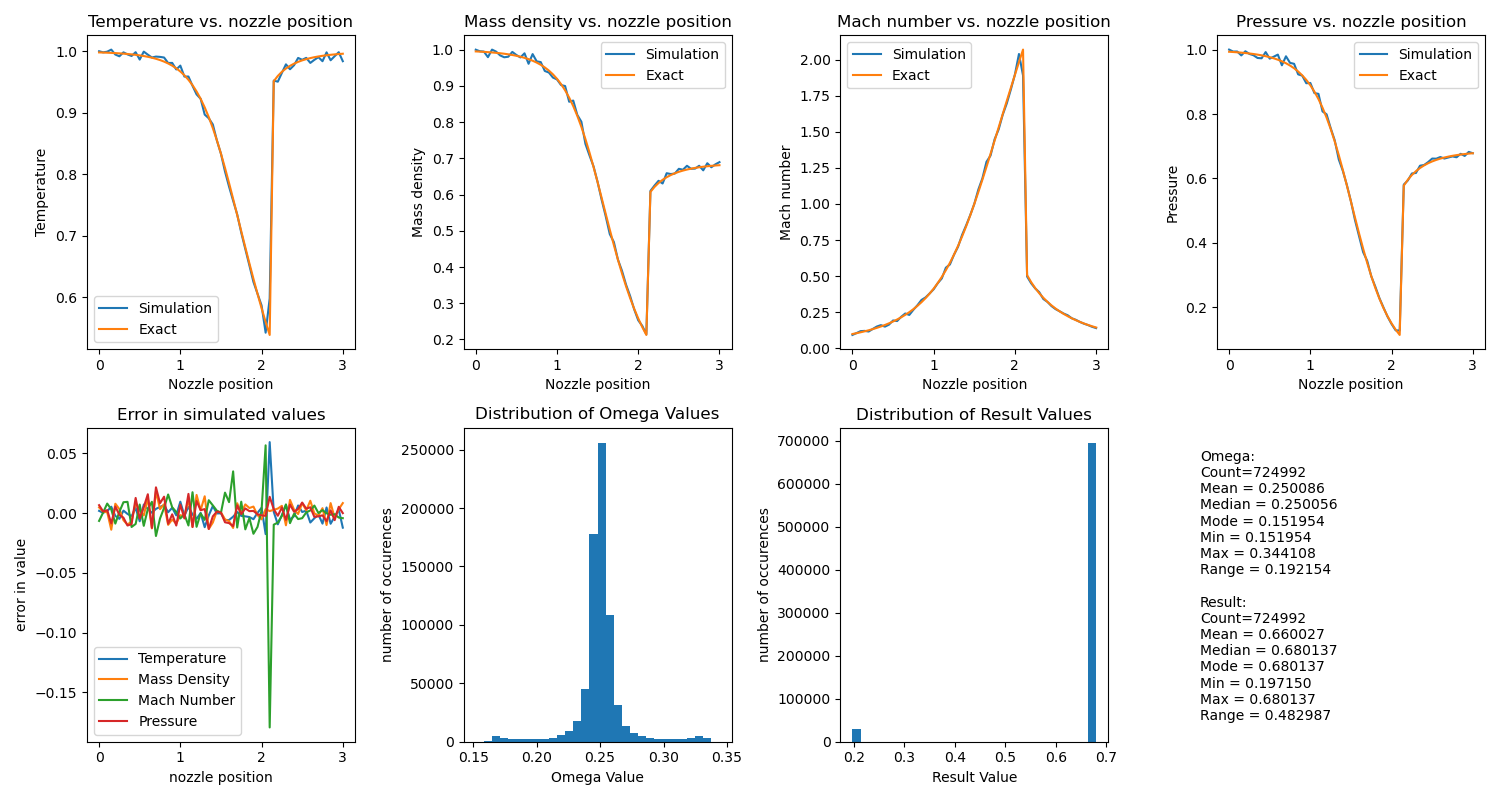
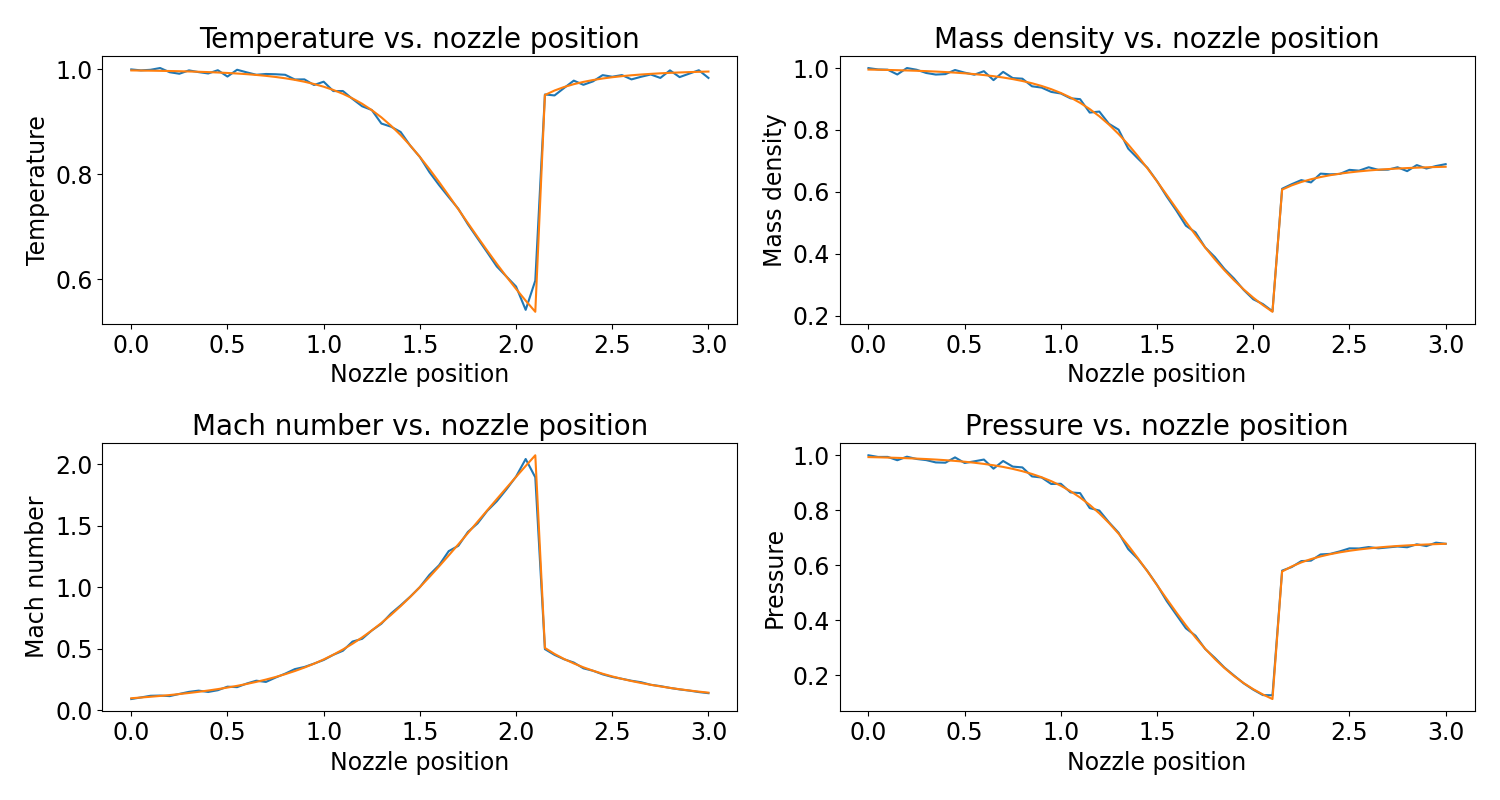
changed image output for my paper

diff --git a/python_version/visualization/vis.py b/python_version/visualization/vis.py
@@ -3,6 +3,17 @@ from scipy import stats
 import numpy as np
 import os, re
 
+# font control
+NORMAL_SIZE = 17
+BIGGER_SIZE = 20
+
+plt.rc('font', size=NORMAL_SIZE)          # controls default text sizes
+plt.rc('axes', titlesize=NORMAL_SIZE)     # fontsize of the axes title
+plt.rc('axes', labelsize=NORMAL_SIZE)    # fontsize of the x and y labels
+plt.rc('xtick', labelsize=NORMAL_SIZE)    # fontsize of the tick labels
+plt.rc('ytick', labelsize=NORMAL_SIZE)    # fontsize of the tick labels
+plt.rc('legend', fontsize=NORMAL_SIZE)    # legend fontsize
+
 class visualize:
     # universal x coordinate system
     x = np.linspace(0, 3, 61)
@@ -17,9 +28,9 @@ class visualize:
         ignore_these = [os.path.split(os.getcwd())[1], "c++_backend", "orig_matlab_files", "orig_python_files", "test", "__pycache__"]
 
         # files that need to be opened, each element gets there own subplot
-        files_to_open = [["Temp_D", "Temp_E"], ['Mrho_D', 'Mrho_E'], ['Mach_D', 'Mach_E'], ["Press_D", "Press_E"], ["QAmpEst"]]
+        files_to_open = [["Temp_D", "Temp_E"], ['Mrho_D', 'Mrho_E'], ['Mach_D', 'Mach_E'], ["Press_D", "Press_E"]]
         
-        plot_functions = [self.temperature, self.massden, self.machnum, self.pressnum, self.none]
+        plot_functions = [self.temperature, self.massden, self.machnum, self.pressnum]
 
         # names of files that indicate how the code was run
         indicating_files = ["QASM", "ORIGINAL", "REAL", "INTERPOLATED", "ESTIMATED"]
@@ -41,7 +52,7 @@ class visualize:
                 # counts the subplot
                 self.count = 0
 
-                self.num_panes = len(plot_functions) - plot_functions.count(self.none)
+                self.num_panes = 2#len(plot_functions) - plot_functions.count(self.none)
 
                 # creates a figure for every element in the in the files_to_open list
                 for i, files in enumerate(files_to_open):
@@ -49,7 +60,7 @@ class visualize:
                         self.count+=1
 
                     # creates a 1 row many column subplot
-                    plt.subplot(2, self.num_panes, self.count)
+                    plt.subplot(self.num_panes, 2, self.count)
 
                     # plots all of the file names in the list at the current position in files_to_open on the same figure
                     for file in files:
@@ -70,14 +81,100 @@ class visualize:
                     plot_functions[i]()
                 
                 plt.savefig((indicator + item).replace(":", ""))
-                    
         #plt.show()
 
+
+
+    # for temperature plot
+    def temperature(self):
+        plt.title('Temperature vs. nozzle position', fontsize = BIGGER_SIZE)
+        plt.xlabel('Nozzle position')
+        plt.ylabel('Temperature')
+        #plt.legend(['Simulation', "1-D analytic solution"])
+        self.legend.append("Temperature")
+
+    # method for TempDvals file
+    def Temp_D(self, data):
+        data = list(map(float, data)) # converts to a list of floats
+        plt.plot(self.x, data, "-")
+        self.differnce_vals.append(data)
+    
+    # method for TempEvals file
+    def Temp_E(self, data):
+        data = list(map(float, data)) # converts to a list of floats
+        plt.plot(self.x, data)
+        self.differnce_vals.append(data)
+
+    # method for mass density plot
+    def massden(self):
+        plt.title('Mass density vs. nozzle position', fontsize = BIGGER_SIZE)
+        plt.xlabel('Nozzle position')
+        plt.ylabel('Mass density')
+        #plt.legend(['Simulation', "1-D analytic solution"])
+        self.legend.append("Mass Density")
+
+    # method for MrhoDvals file
+    def Mrho_D(self, data):
+        data = list(map(float, data)) # converts to a list of floats
+        plt.plot(self.x, data)
+        self.differnce_vals.append(data)
+    
+    # method for MrhoEvals file
+    def Mrho_E(self, data):
+        data = list(map(float, data)) # converts to a list of floats
+        plt.plot(self.x, data)
+        self.differnce_vals.append(data)
+
+    # method for mach number plot
+    def machnum(self):
+        plt.title('Mach number vs. nozzle position', fontsize = BIGGER_SIZE)
+        plt.xlabel('Nozzle position')
+        plt.ylabel('Mach number')
+        #plt.legend(['Simulation', "1-D analytic solution"])
+        self.legend.append("Mach Number")
+
+    # method for MachDvals file
+    def Mach_D(self, data):
+        data = list(map(float, data)) # converts to a list of floats
+        plt.plot(self.x, data)
+        self.differnce_vals.append(data)
+    
+    # method for MachEvals file
+    def Mach_E(self, data):
+        data = list(map(float, data)) # converts to a list of floats
+        plt.plot(self.x, data)
+        self.differnce_vals.append(data)
+
+    def pressnum(self):
+        plt.title('Pressure vs. nozzle position', fontsize = BIGGER_SIZE)
+        plt.xlabel('Nozzle position')
+        plt.ylabel('Pressure')
+        #plt.legend(['Simulation', "1-D analytic solution"])
+        self.legend.append("Pressure")
+
+    # method for MachDvals file
+    def Press_D(self, data):
+        data = list(map(float, data)) # converts to a list of floats
+        plt.plot(self.x, data)
+        self.differnce_vals.append(data)
+
+    # method for MachEvals file
+    def Press_E(self, data):
+        data = list(map(float, data)) # converts to a list of floats
+        plt.plot(self.x, data)
+        self.differnce_vals.append(data)
+    
+    def none(self): pass # does nothing, here to make the code general
+
+visualize()
+
+
+"""
     def error(self):
         self.count+=1
 
         # creates a 1 row many column subplot
-        plt.subplot(2, self.num_panes, self.count)
+        plt.subplot(self.num_panes, 2, self.count)
 
         plt.title('Error in simulated values')
         plt.xlabel('nozzle position')
@@ -93,6 +190,7 @@ class visualize:
 
     # method for omega_log file
     def QAmpEst(self, data):
+        return
         # adds the values from the inputted list to class list if there isn't one there already
         for data_point in data: self.vals.append(data_point)
 
@@ -108,7 +206,7 @@ class visualize:
         self.count+=1
 
         # creates a 1 row many column subplot
-        plt.subplot(2, self.num_panes, self.count)
+        plt.subplot(self.num_panes, 2, self.count)
 
         plt.hist(omegas, bins=30)
         plt.title('Distribution of Omega Values')
@@ -118,12 +216,14 @@ class visualize:
         self.count+=1
 
         # creates a 1 row many column subplot
-        plt.subplot(2, self.num_panes, self.count)
+        plt.subplot(self.num_panes, 2, self.count)
 
         plt.hist(results, bins=30)
         plt.title('Distribution of Result Values')
         plt.xlabel('Result Value')
         plt.ylabel('number of occurences')
+        
+        return
         
         mean = np.mean(omegas)
         median = np.median(omegas)
@@ -143,87 +243,4 @@ class visualize:
         text+=f'''\n\nResult:\nCount={len(results)}\nMean = {mean:.6f}\nMedian = {median:.6f}\nMode = {mode:.6f}\nMin = {min:.6f}\nMax = {max:.6f}\nRange = {(max - min):.6f}'''
         
         plt.figtext(0.8, 0.1, text)
-        
-
-    # for temperature plot
-    def temperature(self):
-        plt.title('Temperature vs. nozzle position')
-        plt.xlabel('Nozzle position')
-        plt.ylabel('Temperature')
-        plt.legend(['Simulation', "Exact"])
-        self.legend.append("Temperature")
-
-    # method for TempDvals file
-    def Temp_D(self, data):
-        data = list(map(float, data)) # converts to a list of floats
-        plt.plot(self.x, data, "-")
-        self.differnce_vals.append(data)
-    
-    # method for TempEvals file
-    def Temp_E(self, data):
-        data = list(map(float, data)) # converts to a list of floats
-        plt.plot(self.x, data)
-        self.differnce_vals.append(data)
-
-    # method for mass density plot
-    def massden(self):
-        plt.title('Mass density vs. nozzle position')
-        plt.xlabel('Nozzle position')
-        plt.ylabel('Mass density')
-        plt.legend(['Simulation', "Exact"])
-        self.legend.append("Mass Density")
-
-    # method for MrhoDvals file
-    def Mrho_D(self, data):
-        data = list(map(float, data)) # converts to a list of floats
-        plt.plot(self.x, data)
-        self.differnce_vals.append(data)
-    
-    # method for MrhoEvals file
-    def Mrho_E(self, data):
-        data = list(map(float, data)) # converts to a list of floats
-        plt.plot(self.x, data)
-        self.differnce_vals.append(data)
-
-    # method for mach number plot
-    def machnum(self):
-        plt.title('Mach number vs. nozzle position')
-        plt.xlabel('Nozzle position')
-        plt.ylabel('Mach number')
-        plt.legend(['Simulation', "Exact"])
-        self.legend.append("Mach Number")
-
-    # method for MachDvals file
-    def Mach_D(self, data):
-        data = list(map(float, data)) # converts to a list of floats
-        plt.plot(self.x, data)
-        self.differnce_vals.append(data)
-    
-    # method for MachEvals file
-    def Mach_E(self, data):
-        data = list(map(float, data)) # converts to a list of floats
-        plt.plot(self.x, data)
-        self.differnce_vals.append(data)
-
-    def pressnum(self):
-        plt.title('Pressure vs. nozzle position')
-        plt.xlabel('Nozzle position')
-        plt.ylabel('Pressure')
-        plt.legend(['Simulation', "Exact"])
-        self.legend.append("Pressure")
-
-    # method for MachDvals file
-    def Press_D(self, data):
-        data = list(map(float, data)) # converts to a list of floats
-        plt.plot(self.x, data)
-        self.differnce_vals.append(data)
-
-    # method for MachEvals file
-    def Press_E(self, data):
-        data = list(map(float, data)) # converts to a list of floats
-        plt.plot(self.x, data)
-        self.differnce_vals.append(data)
-    
-    def none(self): pass # does nothing, here to make the code general
-
-visualize()
+"""
